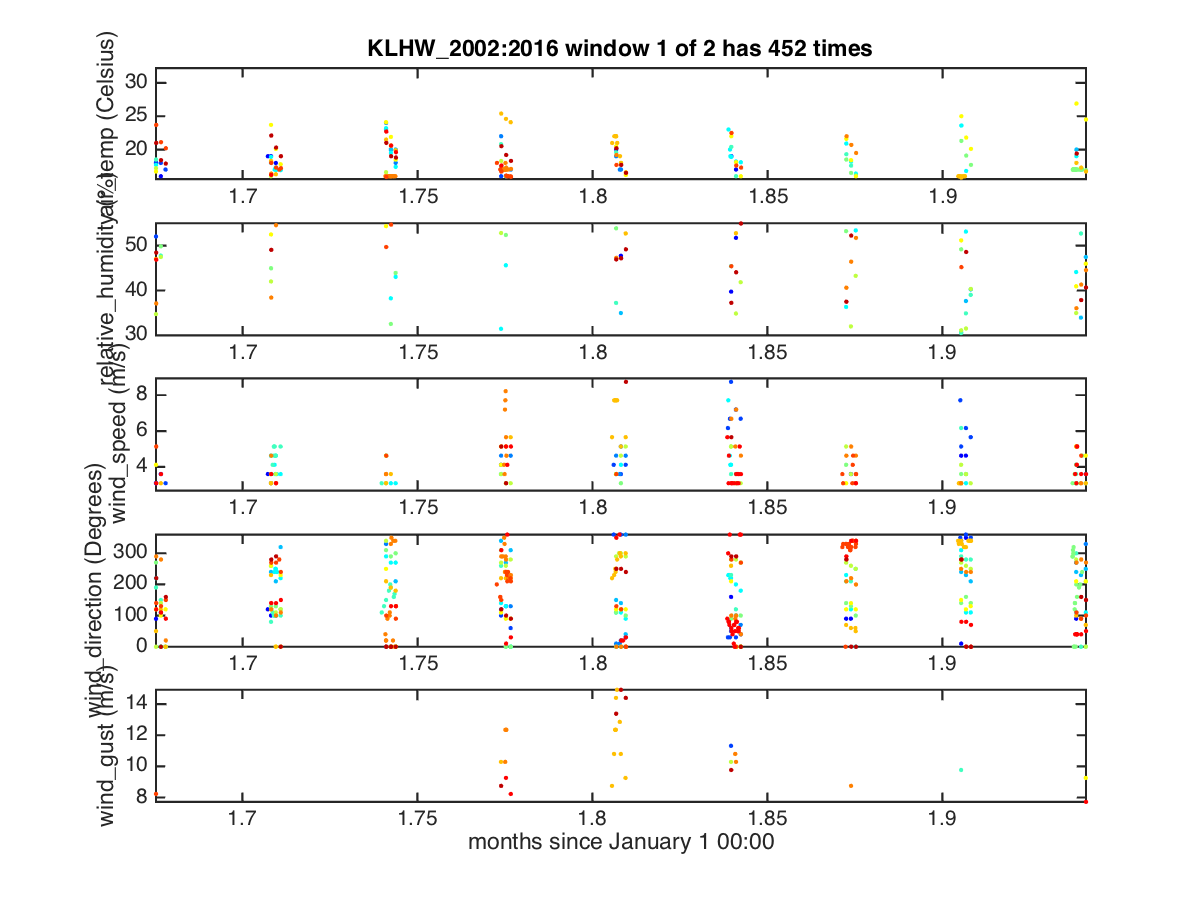
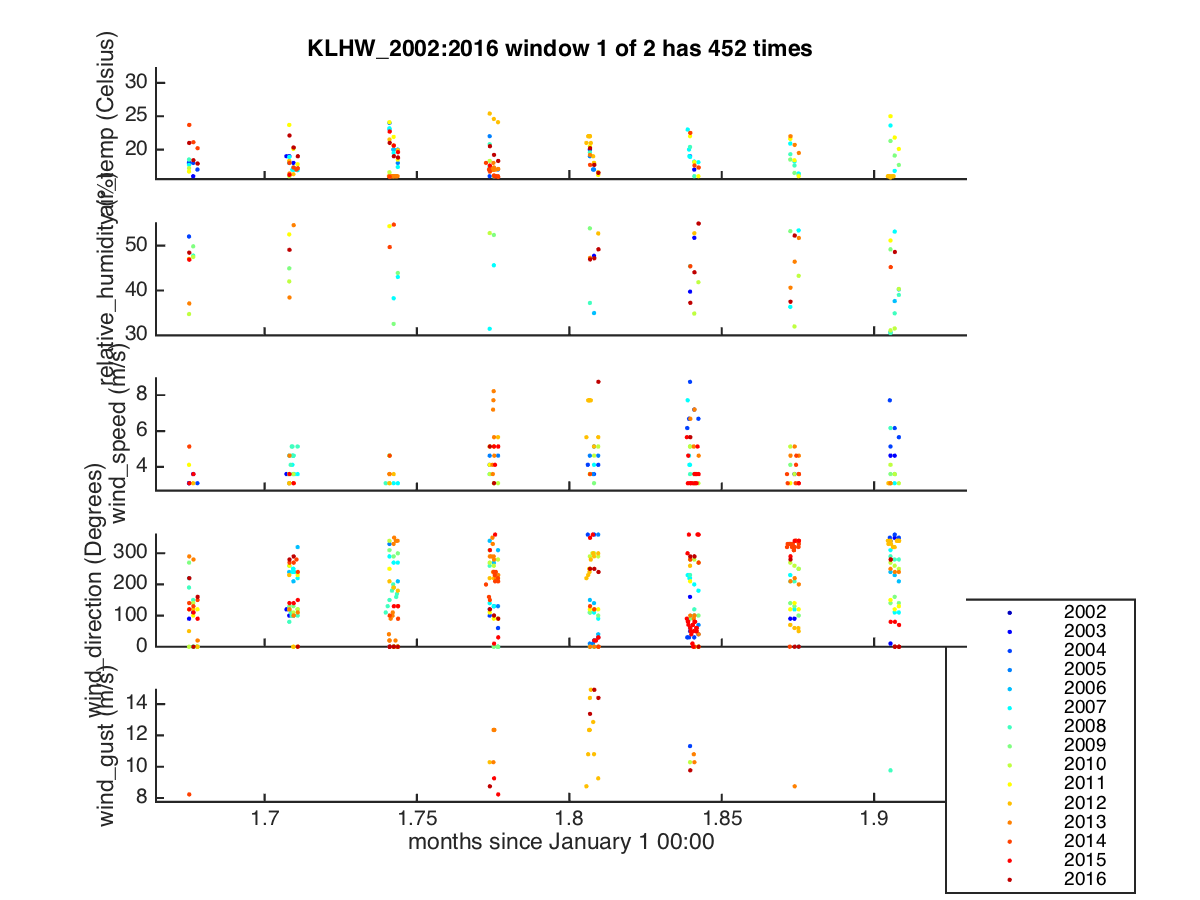
New & better figs

diff --git a/aimefournier/matlab/analXls_figs.m b/aimefournier/matlab/analXls_figs.m
@@ -1,66 +1,56 @@
 
 % Author: Aime' Fournier
 
- clear a cm h
  n = 1;
  for i = lSta				% station (with burn requirements) loop:
     yr = datevec(min(sta(i).t)) : datevec(max(sta(i).t));
     nYr = length(yr);
     cm = colormap(jet(nYr));		% color for each year
     for l = 1 : sta(i).nWin
-    figure(n)
-    set(gcf, 'Units', 'normalized', 'OuterPosition', [1/8 0 7/8 1], 'Units', 'pixels')
-    clf
-%     fRan = repmat([Inf
-%                   -Inf], 1, nDat);	% range of field values
-    isp = false(1, nDat);		% plot started
-    nPt = 0;				% nu. points plotted
-    for j = 1 : nYr			% year loop at station i:
+       figure(n)
+       set(gcf, 'Units', 'normalized', 'OuterPosition', [1/8 0 7/8 1], 'Units', 'pixels')
+       clf
        [d{1 : 4}] = datevec(sta(i).t);
-       f = find(                      d{1} == yr(j)              & ...
-	        sta(i).bmdh(1,1,l) <= d{2}                       & ...
+       f = find(sta(i).bmdh(1,1,l) <= d{2}                       & ...
 		                      d{2} <= sta(i).bmdh(2,1,l) & ...
 		sta(i).bmdh(1,2,l) <= d{3}                       & ...
 		                      d{3} <= sta(i).bmdh(2,2,l) & ...
 		sta(i).bmdh(1,3,l) <= d{4}                       & ...
-		                      d{4} <= sta(i).bmdh(2,3,l));
-       Jan1 = datenum(sprintf('%4d-01-01T00:00:00Z', yr(j)), datef);
-       t = (sta(i).t(f) - Jan1)*12/365;	% months since January 1 00:00
-       nPt = nPt + length(f);
-       for k = 1 : nDat			% data-type loop:
-	  if ~all(isnan(sta(i).d(f,k)))
-	     if isp(k)			% insert in started plot:
-		subplot(h.a(k, i))
-		h.p(k,j,i) = line(t, sta(i).d(f,k), 'Color', cm(j, :), 'LineStyle', 'none', 'Marker', '.');
-	     else			% start plot:
-		h.a(k,i) = subplot(nDat, 1, k);
-		h.p(k,j,i) = plot(t, sta(i).d(f,k), '.', 'Color', cm(j, :));
-		isp(k) = true;
+		                      d{4} <= sta(i).bmdh(2,3,l) & ...
+		any(isfinite(                 sta(i).d          ), 2));
+       for k = nDat : -1 : 1		% data-type loop:
+	  subplot(nDat, 8, 8*k + (-7:-1))
+	  for j = 1 : nYr		% year loop at station i:
+	     g = find(datevec(sta(i).t(f)) == yr(j));
+	     Jan1 = datenum(sprintf('%4d-01-01T00:00:00Z', yr(j)), datef);
+	     t = (sta(i).t(f(g)) ...	% months since January 1 00:00
+		- Jan1)*12/365;
+	     if ~sum(g)
+		fprintf('No good data for %s_%d window %d of %d\n', sta(i).name, yr(j), l, sta(i).nWin)
+		line(NaN(1, 2), NaN(1, 2), 'Color', cm(j, :), 'DisplayName', sprintf('%4d', yr(j)), 'LineStyle', 'none', 'Marker', '.');
+	     else
+		line(t, sta(i).d(f(g),k), 'Color', cm(j, :), 'DisplayName', sprintf('%4d', yr(j)), 'LineStyle', 'none', 'Marker', '.');
 	     end
-% 	     if sum(strcmp({'wind_speed'}, datList{k}))
-% 		set(gca, 'YScale', 'log')
-% 	     end			% ... log scale for wind_speed
-	     axis tight
-% 	     fRan(:, k) = [min(fRan(1,k), min(sta(i).d(f,k)))
-% 		           max(fRan(2,k), max(sta(i).d(f,k)))];
-             if all(isfinite(sta(i).bReqs(:,k,l)))
-		set(gca, 'YLim', sta(i).bReqs(:,k,l))
-	     end
-	     ylabel([strrep(datList{k},'_','\_') ' (' sta(i).u{k} ')'])
+	  end
+% 	  if sum(strcmp('wind_speed', datList{k}))
+% 	     set(gca, 'YScale', 'log')
+% 	  end			% ... log scale for wind_speed
+	  axis tight
+	  set(gca, 'XLim', ([datenum(sprintf('%4d-%2d-%2dT%2d:00:00Z', yr(nYr), sta(i).bmdh(1,:,l)), datef)
+	                     datenum(sprintf('%4d-%2d-%2dT%2d:00:00Z', yr(nYr), sta(i).bmdh(2,:,l)), datef)] - Jan1)*12/365)
+	  if all(isfinite(sta(i).bReqs(:,k,l)))
+	     set(gca, 'YLim', sta(i).bReqs(:,k,l))
+	  end
+	  ylabel([strrep(datList{k}, '_', '\_') ' (' sta(i).u{k} ')'])
+	  if k == nDat
+	     xlabel('months since January 1 00:00')
+	     set(legend('show'), 'Position', get(subplot(k, 8, 8*k, 'Visible', 'off'), 'Position'))
 	  else
-	     fprintf('All NaNs for %s_%d window %d of %d, %4s\n', ...
-		sta(i).name, yr(j), l, sta(i).nWin, datList{k})
+	     set(gca, 'XTickLabel', '')
 	  end
        end
+       title(sprintf('%s\\_%d:%d window %d of %d has %d times', sta(i).name, yr([1 end]), l, sta(i).nWin, length(f)))
+       n = n + 1;
+       drawnow
     end
-    for k = 1 : nDat
-       r = arrayfun(@(x)~isa(x, 'matlab.graphics.GraphicsPlaceholder'), h.p(k,1 : nYr,i));
-       legend(h.p(k,r,i), reshape(sprintf('%d', yr(r)), 4, sum(r))', 'Location', 'eastoutside')
-    end
-    title(h.a(1,i), sprintf('%s\\_%d:%d window %d of %d has %d times', ...
-       sta(i).name, yr([1 end]), l, sta(i).nWin, nPt))
-    xlabel('months since January 1 00:00')
-    drawnow
-    n = n + 1;
-    end
- end,clear a b cm d f fRan i isp j Jan1 k l nPt r t
+ end,clear cm d f g i j Jan1 k l t
